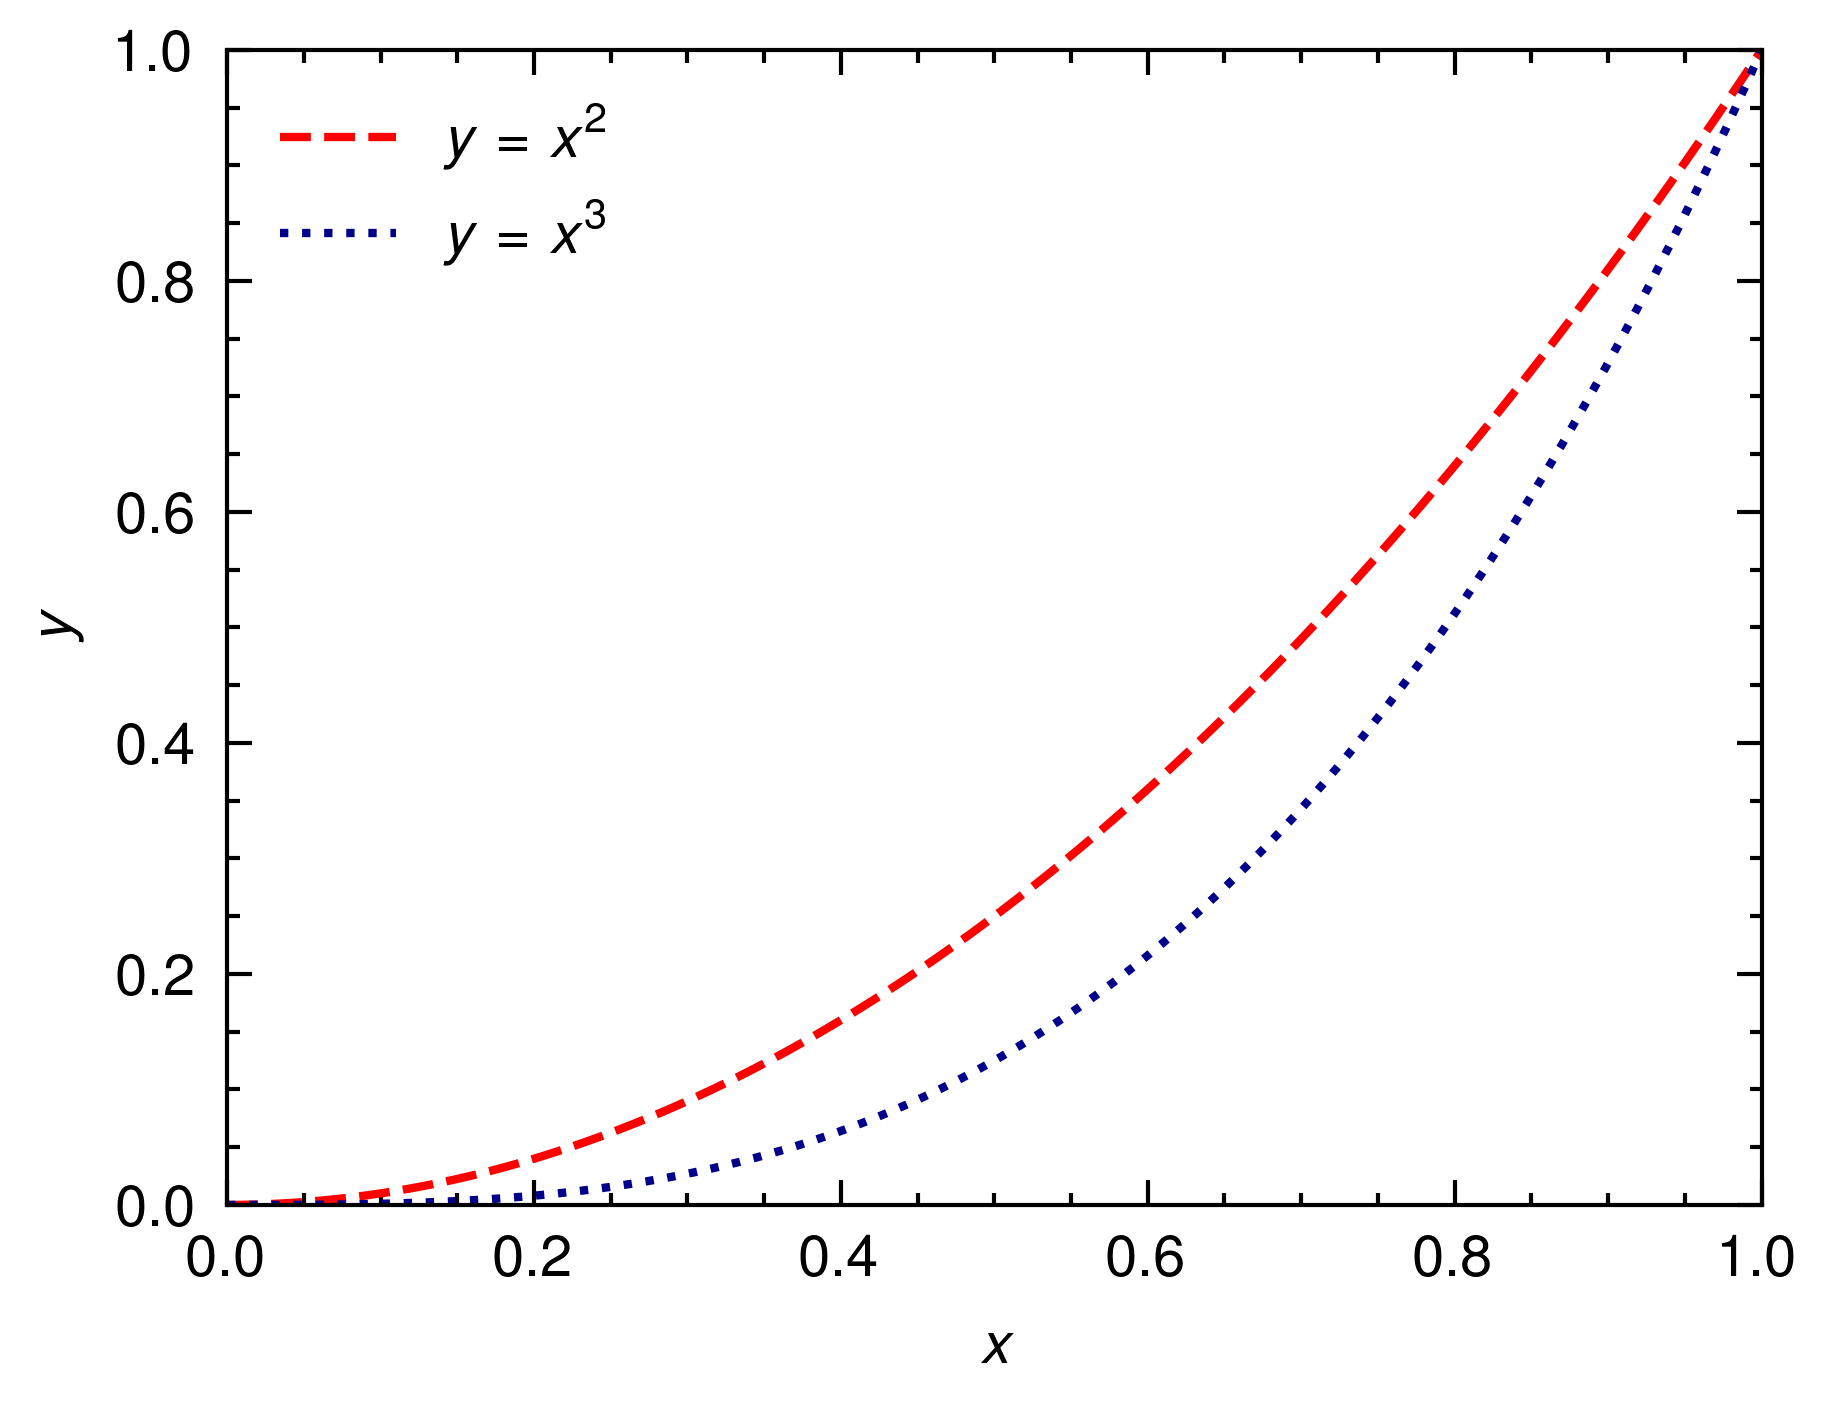
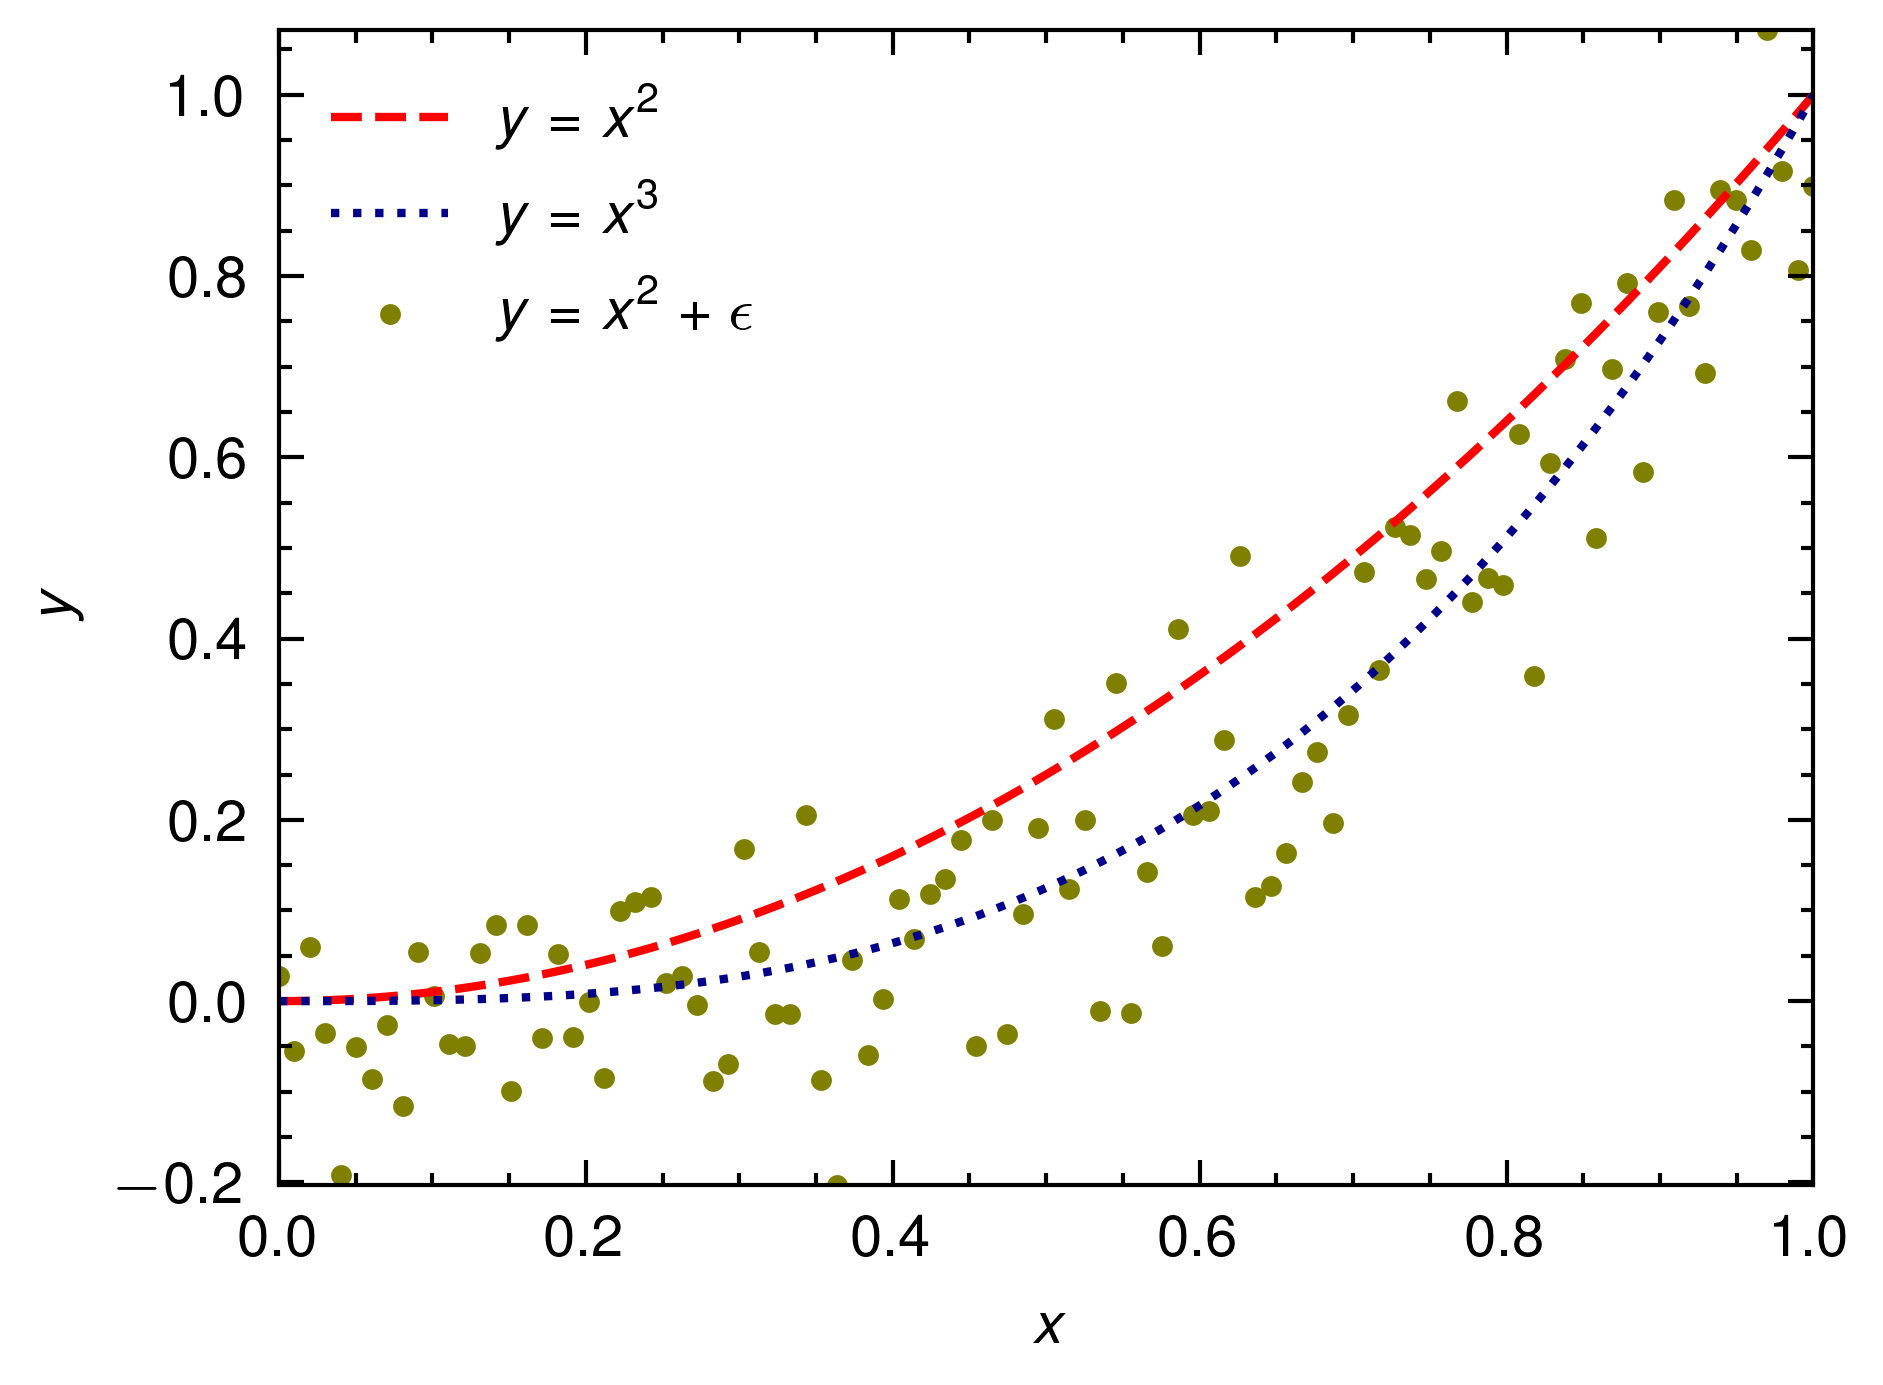
DOCS: Add scatter to plot example

diff --git a/src/util/plot.rs b/src/util/plot.rs
@@ -21,13 +21,20 @@
 //!     let y1 = x.fmap(|t| t.powi(2));
 //!     let y2 = x.fmap(|t| t.powi(3));
 //!
+//!     let normal = Normal(0f64, 0.1);
+//!     let eps = normal.sample(100);
+//!     let y3 = y2.add_v(&eps);
+//!
 //!     let mut plt = Plot2D::new();
 //!     plt.set_domain(x)
 //!         .insert_image(y1)
 //!         .insert_image(y2)
-//!         .set_legend(vec![r"$y=x^2$", r"$y=x^3$"])
+//!         .insert_image(y3)
+//!         .set_legend(vec![r"$y=x^2$", r"$y=x^3$", r"$y=x^2 + \epsilon$"])
 //!         .set_line_style(vec![(0, LineStyle::Dashed), (1, LineStyle::Dotted)])
-//!         .set_color(vec![(0, "red"), (1, "darkblue")])
+//!         .set_plot_type(vec![(2, PlotType::Scatter)])
+//!         .set_marker(vec![(2, Markers::Point)])
+//!         .set_color(vec![(0, "red"), (1, "darkblue"), (2, "olive")])
 //!         .set_xlabel(r"$x$")
 //!         .set_ylabel(r"$y$")
 //!         .set_style(PlotStyle::Nature) // if you want to use scienceplots
@@ -63,8 +70,9 @@
 //! - `set_style` : Set style of plot (`PlotStyle::Nature`, `PlotStyle::IEEE`, `PlotStyle::Default` (default), `PlotStyle::Science`)
 //! - `tight_layout` : Set tight layout of plot (optional)
 //! - `set_line_style` : Set line style of plot (optional; `LineStyle::{Solid, Dashed, Dotted, DashDot}`)
-//! - `set_color` : Set color of plot (optional; Vec<&str>)
-//! - `set_alpha` : Set alpha of plot (optional; Vec<f64>)
+//! - `set_color` : Set color of plot (optional; Vec<(usize, &str)>)
+//! - `set_alpha` : Set alpha of plot (optional; Vec<(usize, f64)>)
+//! - `set_plot_type` : Set plot type of plot (optional; `PlotType::{Scatter, Line, Bar}`)
 //! - `savefig` : Save plot with given path
 
 extern crate pyo3;
